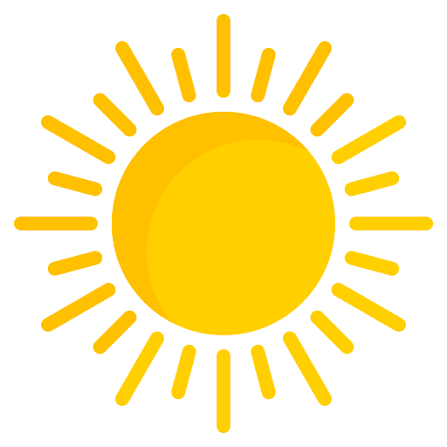
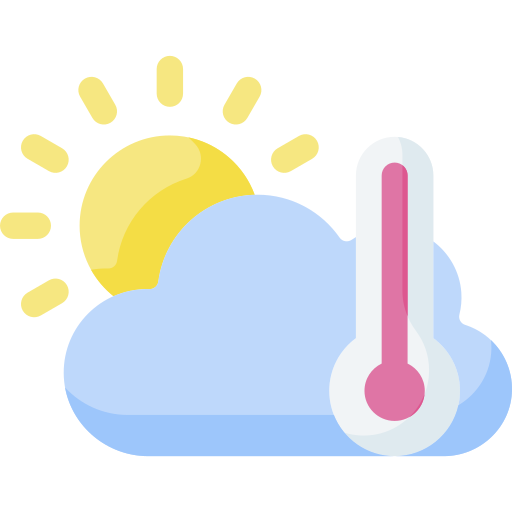
first commit

diff --git a/vite-project/index.html b/vite-project/index.html
@@ -10,7 +10,7 @@
     <div id="root"></div>
     <script type="module" src="/src/main.jsx"></script>
   </body>
-  <font>
+  <footer>
     <img src="https://cdn.pixabay.com/photo/2021/06/26/18/11/live-6366830_960_720.png" alt="live">
-  </font>
+  </footer>
 </html>

diff --git a/vite-project/src/components/Weather.css b/vite-project/src/components/Weather.css
@@ -67,6 +67,6 @@
     display: flex;
     
 }
-.footer img{
-    width: 20px;
+footer img{
+    width: 30px;
 }
